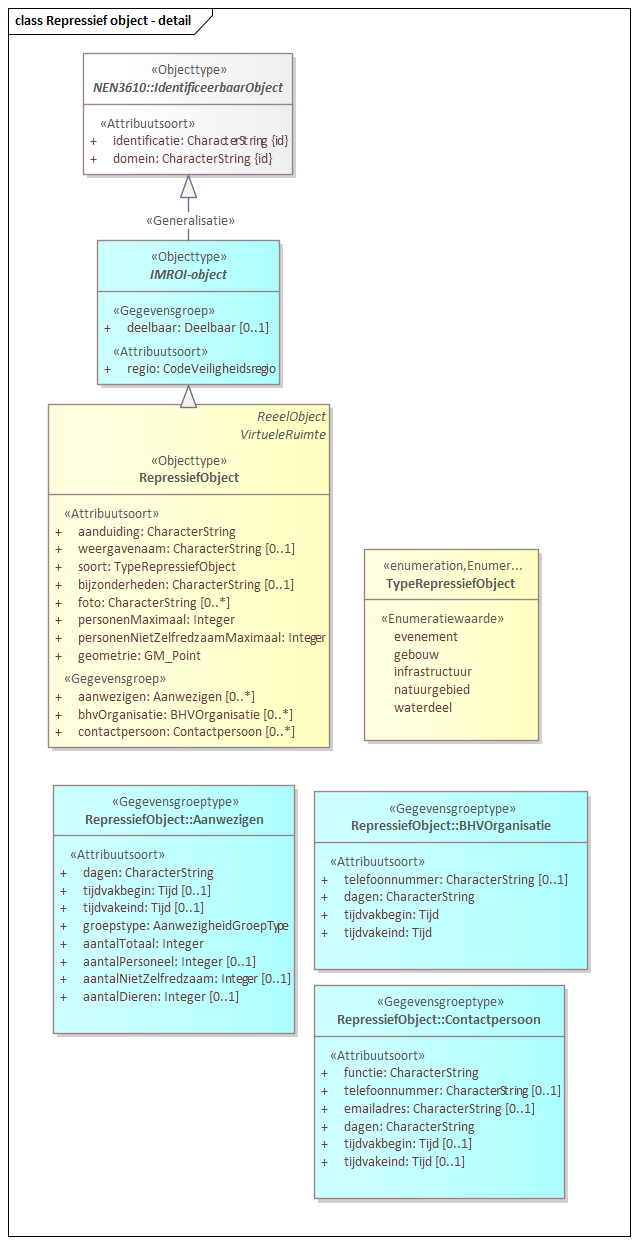
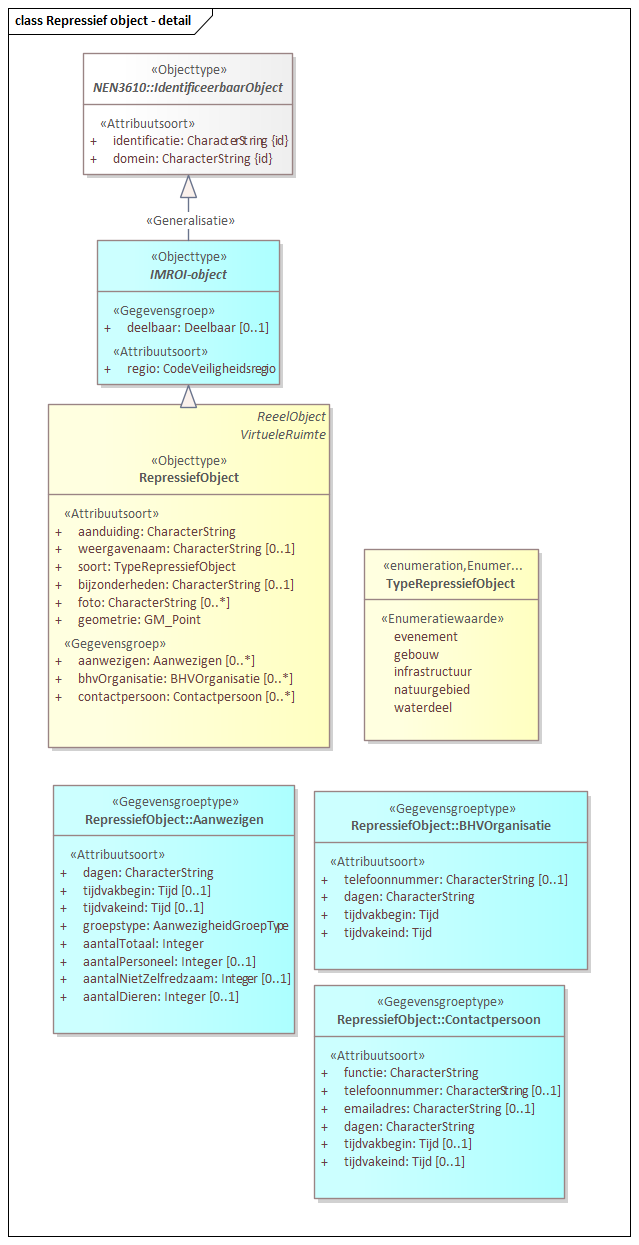
MIMCM-IMROI-logischmodel-1.0-0-20231106-20250707-103139

Changed region(s): [[0.0892, 0.4884, 0.5055, 0.6104]]

diff --git a/data/IMROI-cat.respec.html b/data/IMROI-cat.respec.html
@@ -1,4 +1,4 @@
-<!DOCTYPE HTML><section id="cat" class="normative"><h2>Gegevensdefinitie</h2><!--MIMCM-IMROI-logischmodel-1.0-0-20231106-20250122-074635 imvertor 4.3.0--><section id="global_package_IMROIdomein"><h3>Domein   IMROI - domein</h3><section id="EAID_F0702C87_77BC_4f87_90C6_7A2C434CAA31"><h4>   IMROI - overzicht</h4><div class="imageinfo overview"><figure class="uml-diagram"><img id="EAID_F0702C87_77BC_4f87_90C6_7A2C434CAA31" src="data/Images/EAID_F0702C87_77BC_4f87_90C6_7A2C434CAA31.png" usemap="#imagemap-EAID_F0702C87_77BC_4f87_90C6_7A2C434CAA31" alt="Diagram: IMROI - overzicht"><figcaption> ‒ Diagram: IMROI</figcaption></figure><map name="imagemap-EAID_F0702C87_77BC_4f87_90C6_7A2C434CAA31"><area shape="rect" alt="Bouwlaag" coords="48,409,169,457" href="#global_class_IMROIdomein_Bouwlaag"><area shape="rect" alt="IMROI-object" coords="206,67,329,135" href="#global_class_IMROIdomein_IMROIobject"><area shape="rect" alt="IdentificeerbaarObject" coords="397,63,534,141" href="#global_class_NEN3610_IdentificeerbaarObject"><area shape="rect" alt="Gebouw" coords="142,239,269,296" href="#global_class_IMROIdomein_Gebouw"><area shape="rect" alt="InformatieObject" coords="375,409,554,457" href="#global_class_IMROIdomein_InformatieObject"><area shape="rect" alt="Terrein" coords="700,239,804,296" href="#global_class_IMROIdomein_Terrein"><area shape="rect" alt="RepressiefObject" coords="378,239,551,296" href="#global_class_IMROIdomein_RepressiefObject"><area shape="rect" alt="Registratie" coords="681,66,804,139" href="#global_class_NEN3610_Registratie"></map><p>
+<!DOCTYPE HTML><section id="cat" class="normative"><h2>Gegevensdefinitie</h2><!--MIMCM-IMROI-logischmodel-1.0-0-20231106-20250707-103139 imvertor 4.4.0--><section id="global_package_IMROIdomein"><h3>Domein   IMROI - domein</h3><section id="EAID_F0702C87_77BC_4f87_90C6_7A2C434CAA31"><h4>   IMROI - overzicht</h4><div class="imageinfo overview"><figure class="uml-diagram"><img id="EAID_F0702C87_77BC_4f87_90C6_7A2C434CAA31" src="data/Images/EAID_F0702C87_77BC_4f87_90C6_7A2C434CAA31.png" usemap="#imagemap-EAID_F0702C87_77BC_4f87_90C6_7A2C434CAA31" alt="Diagram: IMROI - overzicht"><figcaption> ‒ Diagram: IMROI</figcaption></figure><map name="imagemap-EAID_F0702C87_77BC_4f87_90C6_7A2C434CAA31"><area shape="rect" alt="Bouwlaag" coords="48,409,169,457" href="#global_class_IMROIdomein_Bouwlaag"><area shape="rect" alt="IMROI-object" coords="206,67,329,135" href="#global_class_IMROIdomein_IMROIobject"><area shape="rect" alt="IdentificeerbaarObject" coords="397,63,534,141" href="#global_class_NEN3610_IdentificeerbaarObject"><area shape="rect" alt="Gebouw" coords="142,239,269,296" href="#global_class_IMROIdomein_Gebouw"><area shape="rect" alt="InformatieObject" coords="375,409,554,457" href="#global_class_IMROIdomein_InformatieObject"><area shape="rect" alt="Terrein" coords="700,239,804,296" href="#global_class_IMROIdomein_Terrein"><area shape="rect" alt="RepressiefObject" coords="378,239,551,296" href="#global_class_IMROIdomein_RepressiefObject"><area shape="rect" alt="Registratie" coords="681,66,804,139" href="#global_class_NEN3610_Registratie"></map><p>
                         <p></p>
                      </p></div></section><section id="EAID_476DC045_B88A_4aaa_A580_233B35E2F082"><h4>   IMROI zonder attributen - overzicht</h4><div class="imageinfo overview"><figure class="uml-diagram"><img id="EAID_476DC045_B88A_4aaa_A580_233B35E2F082" src="data/Images/EAID_476DC045_B88A_4aaa_A580_233B35E2F082.png" usemap="#imagemap-EAID_476DC045_B88A_4aaa_A580_233B35E2F082" alt="Diagram: IMROI zonder attributen - overzicht"><figcaption> ‒ Diagram: IMROI zonder attributen</figcaption></figure><map name="imagemap-EAID_476DC045_B88A_4aaa_A580_233B35E2F082"><area shape="rect" alt="Impactzone" coords="700,519,802,565" href="#global_class_IMROIdomein_Impactzone"><area shape="rect" alt="Functioneel gebied" coords="1575,581,1799,628" href="#global_class_IMGeo_Functioneelgebied"><area shape="rect" alt="Scheiding" coords="1322,542,1546,588" href="#global_class_IMGeo_Scheiding"><area shape="rect" alt="Kunstwerkdeel" coords="1313,304,1537,351" href="#global_class_IMGeo_Kunstwerkdeel"><area shape="rect" alt="Tunneldeel" coords="1311,383,1535,430" href="#global_class_IMGeo_Tunneldeel"><area shape="rect" alt="Overbruggingsdeel" coords="1311,463,1535,509" href="#global_class_IMGeo_Overbruggingsdeel"><area shape="rect" alt="Ondersteunend waterdeel" coords="1575,502,1799,549" href="#global_class_IMGeo_Ondersteunendwaterdeel"><area shape="rect" alt="Waterdeel" coords="1575,423,1799,469" href="#global_class_IMGeo_Waterdeel"><area shape="rect" alt="Begroeid terreindeel" coords="1575,265,1799,311" href="#global_class_IMGeo_Begroeidterreindeel"><area shape="rect" alt="Onbegroeid terreindeel" coords="1586,344,1809,390" href="#global_class_IMGeo_Onbegroeidterreindeel"><area shape="rect" alt="Spoor" coords="1313,225,1537,272" href="#global_class_IMGeo_Spoor"><area shape="rect" alt="Ondersteunend wegdeel" coords="1575,186,1799,232" href="#global_class_IMGeo_Ondersteunendwegdeel"><area shape="rect" alt="Wegdeel" coords="1313,147,1537,194" href="#global_class_IMGeo_Wegdeel"><area shape="rect" alt="Overig bouwwerk" coords="50,237,274,284" href="#global_class_IMGeo_Overigbouwwerk"><area shape="rect" alt="Pand" coords="50,160,274,206" href="#global_class_IMBAG_Pand"><area shape="rect" alt="PandOfOverigBouwwerk" coords="233,63,377,109" href="#global_class_IMROIdomein_PandOfOverigBouwwerk"><area shape="rect" alt="IMGeo-object" coords="1168,70,1291,116" href="#global_class_IMROIdomein_IMGeoobject"><area shape="rect" alt="Bouwlaag" coords="465,172,588,218" href="#global_class_IMROIdomein_Bouwlaag"><area shape="rect" alt="Veiligheidsvoorziening" coords="232,418,366,464" href="#global_class_IMROIdomein_Veiligheidsvoorziening"><area shape="rect" alt="Gebouw" coords="463,64,590,111" href="#global_class_IMROIdomein_Gebouw"><area shape="rect" alt="InformatieObject" coords="633,278,811,325" href="#global_class_IMROIdomein_InformatieObject"><area shape="rect" alt="Beheersmaatregel" coords="778,416,883,463" href="#global_class_IMROIdomein_Beheersmaatregel"><area shape="rect" alt="Referentiepunt" coords="535,519,640,565" href="#global_class_IMROIdomein_Referentiepunt"><area shape="rect" alt="Ruimte" coords="362,278,499,325" href="#global_class_IMROIdomein_Ruimte"><area shape="rect" alt="Bereikbaarheid" coords="456,416,561,463" href="#global_class_IMROIdomein_Bereikbaarheid"><area shape="rect" alt="Opslagvoorziening" coords="48,419,153,465" href="#global_class_IMROIdomein_Opslagvoorziening"><area shape="rect" alt="VindplaatsSleutel" coords="363,519,468,565" href="#global_class_IMROIdomein_VindplaatsSleutel"><area shape="rect" alt="Toegang" coords="128,523,233,569" href="#global_class_IMROIdomein_Toegang"><area shape="rect" alt="Opstelplaats" coords="614,416,719,463" href="#global_class_IMROIdomein_Opstelplaats"><area shape="rect" alt="Terrein" coords="963,65,1068,112" href="#global_class_IMROIdomein_Terrein"><area shape="rect" alt="RepressiefObject" coords="700,64,839,111" href="#global_class_IMROIdomein_RepressiefObject"></map><p>
                         <p></p>
@@ -97,18 +97,6 @@
                         </td><td>
                            CharacterString
                         </td><td>0 .. *</td></tr><tr><td>
-                           <a class="link" href="#detail_attribute_IMROIdomein_RepressiefObject_personenMaximaal">personenMaximaal</a>
-                        </td><td>
-                           <p>Het maximaal aantal aanwezige personen volgens de vergunning.</p>
-                        </td><td>
-                           Integer
-                        </td><td>1</td></tr><tr><td>
-                           <a class="link" href="#detail_attribute_IMROIdomein_RepressiefObject_personenNietZelfredzaamMaximaal">personenNietZelfredzaamMaximaal</a>
-                        </td><td>
-                           <p>Het maximaal aantal aanwezigen niet zelfredzame personen volgens de vergunning.</p>
-                        </td><td>
-                           Integer
-                        </td><td>1</td></tr><tr><td>
                            <a class="link" href="#detail_attribute_IMROIdomein_RepressiefObject_geometrie">geometrie</a>
                         </td><td>
                            <p>Puntgeometrie.</p>
@@ -750,7 +738,7 @@ gevaar oplevert voor de veiligheid en gezondheid van mens, dier en milieu.</p>
                
                <h6>Overzicht constraints  </h6>
                   <table style="width: 100%;"><colgroup style="width: 30%;"></colgroup><colgroup style="width: 70%;"></colgroup><tbody><tr><th>Naam</th><th>Uitleg</th></tr><tr><th>
-                           <a class="link" href="#detail_d69739e12191">
+                           <a class="link" href="#detail_d69023e11918">
                               TypeVeiligheidsvoorziening
                            </a>
                         </th><td></td></tr></tbody></table>
@@ -1714,38 +1702,6 @@ gevaar opleveren voor de veiligheid en gezondheid van mens, dier en milieu.</p>
                               CharacterString
                            </td></tr><tr><th>Kardinaliteit</th><td>0 .. *</td></tr><tr><th>Indicatie classificerend</th><td>Nee</td></tr><tr><th>Mogelijk geen waarde</th><td>Nee</td></tr><tr><th>Indicatie identificerend</th><td>Nee</td></tr></tbody></table>
                   </div>
-                  <div class="deepheader" id="detail_attribute_IMROIdomein_RepressiefObject_personenMaximaal"><h7>Attribuutsoort details  <a href="#global_class_IMROIdomein_RepressiefObject">RepressiefObject</a> personenMaximaal</h7>
-                     <table style="width: 100%;"><colgroup style="width: 30%;"></colgroup><colgroup style="width: 70%;"></colgroup><tbody><tr><th>Naam</th><td>personenMaximaal</td></tr><tr><th>Herkomst</th><td>
-                              IMROI
-                           </td></tr><tr><th>Definitie</th><td>
-                              
-                                    <p>Het maximaal aantal aanwezige personen volgens de vergunning.</p>
-                                 
-                           </td></tr><tr><th>Herkomst definitie</th><td>
-                              IMROI
-                           </td></tr><tr><th>Datum opname</th><td>
-                              2025-01-14
-                           </td></tr><tr><th>Formaat</th><td>
-                              Integer
-                           </td></tr><tr><th>Kardinaliteit</th><td>1</td></tr><tr><th>Indicatie classificerend</th><td>Nee</td></tr><tr><th>Mogelijk geen waarde</th><td>Nee</td></tr><tr><th>Indicatie identificerend</th><td>Nee</td></tr></tbody></table>
-                  </div>
-                  <div class="deepheader" id="detail_attribute_IMROIdomein_RepressiefObject_personenNietZelfredzaamMaximaal"><h7>Attribuutsoort details  <a href="#global_class_IMROIdomein_RepressiefObject">RepressiefObject</a> personenNietZelfredzaamMaximaal</h7>
-                     <table style="width: 100%;"><colgroup style="width: 30%;"></colgroup><colgroup style="width: 70%;"></colgroup><tbody><tr><th>Naam</th><td>personenNietZelfredzaamMaximaal</td></tr><tr><th>Herkomst</th><td>
-                              IMROI
-                           </td></tr><tr><th>Definitie</th><td>
-                              
-                                    <p>Het maximaal aantal aanwezigen niet zelfredzame personen volgens de vergunning.</p>
-                                 
-                           </td></tr><tr><th>Herkomst definitie</th><td>
-                              IMROI
-                           </td></tr><tr><th>Datum opname</th><td>
-                              2025-01-14
-                           </td></tr><tr><th>Formaat</th><td>
-                              Integer
-                           </td></tr><tr><th>Kardinaliteit</th><td>1</td></tr><tr><th>Toelichting</th><td>
-                              Niet zelfredzame personen hebben niet het vermogen om zichzelf of anderen te helpen in voorbereiding op, tijdens en na een brand, ramp of crisis.
-                           </td></tr><tr><th>Indicatie classificerend</th><td>Nee</td></tr><tr><th>Mogelijk geen waarde</th><td>Nee</td></tr><tr><th>Indicatie identificerend</th><td>Nee</td></tr></tbody></table>
-                  </div>
                   <div class="deepheader" id="detail_attribute_IMROIdomein_RepressiefObject_geometrie"><h7>Attribuutsoort details  <a href="#global_class_IMROIdomein_RepressiefObject">RepressiefObject</a> geometrie</h7>
                      <table style="width: 100%;"><colgroup style="width: 30%;"></colgroup><colgroup style="width: 70%;"></colgroup><tbody><tr><th>Naam</th><td>geometrie</td></tr><tr><th>Herkomst</th><td>
                               IMROI
@@ -2062,7 +2018,7 @@ gevaar opleveren voor de veiligheid en gezondheid van mens, dier en milieu.</p>
                               <a class="link" href="#global_class_IMROIdomein_VindplaatsSleutel">VindplaatsSleutel</a>
                            </td></tr><tr><th>Kardinaliteit</th><td>0 .. *</td></tr></tbody></table>
                   </div>
-                  <div class="deepheader" id="detail_d69739e12191"><h7>Constraint details  <a href="#global_class_IMROIdomein_Veiligheidsvoorziening">Veiligheidsvoorziening</a> TypeVeiligheidsvoorziening</h7>
+                  <div class="deepheader" id="detail_d69023e11918"><h7>Constraint details  <a href="#global_class_IMROIdomein_Veiligheidsvoorziening">Veiligheidsvoorziening</a> TypeVeiligheidsvoorziening</h7>
                      <table style="width: 100%;"><colgroup style="width: 30%;"></colgroup><colgroup style="width: 70%;"></colgroup><tbody><tr><th>OCL</th><td>context Veiligheidsvoorziening inv: if self.type = 'brandwerende scheiding' then self.geometrie.oclIsTypeOf(GM_Curve) else if self.type = 'hoofdafsluiter CV' then self.geometrie.oclIsTypeOf(GM_Point) else true endif</td></tr></tbody></table>
                   </div>
                </section>
@@ -3552,36 +3508,36 @@ De reguliere expressie voor de toegestane tekens is: ([a-z]|[A-Z]|[0-9]|_|-|\,|.
             
             
             
-         </section></section></section><section id="lis" class="normative"><h2>Inhoud van waardelijsten</h2><!--MIMCM-IMROI-logischmodel-1.0-0-20231106-20250122-074635 imvertor 4.3.0--><section><h3>Codelijst inhoud   </h3><section id="detail_class_IMROIdomein_TypeDraagconstructie"><h4>Codelijst details  TypeDraagconstructie</h4>
+         </section></section></section><section id="lis" class="normative"><h2>Inhoud van waardelijsten</h2><!--MIMCM-IMROI-logischmodel-1.0-0-20231106-20250707-103139 imvertor 4.4.0--><section><h3>Codelijst inhoud   </h3><section id="detail_class_IMROIdomein_TypeDraagconstructie"><h4>Codelijst details  TypeDraagconstructie</h4>
             <table style="width: 100%;" class="list"><colgroup></colgroup><tbody><tr><td>
                      <p>Lijst met classificaties voor het type Draagconstructie.</p>
                   </td></tr></tbody></table>
-            <table style="width: 100%;"><tbody><tr><th>Waarde</th><th>Omschrijving</th></tr></tbody></table>
+            <table style="width: 100%;"><tbody></tbody></table>
          </section><section id="detail_class_IMROIdomein_TypeDakbedekking"><h4>Codelijst details  TypeDakbedekking</h4>
             <table style="width: 100%;" class="list"><colgroup></colgroup><tbody><tr><td>
                      <p>Lijst met classificaties voor het type Dakbedekking.</p>
                   </td></tr></tbody></table>
-            <table style="width: 100%;"><tbody><tr><th>Waarde</th><th>Omschrijving</th></tr></tbody></table>
+            <table style="width: 100%;"><tbody></tbody></table>
          </section><section id="detail_class_IMROIdomein_TypeBereikbaarheid"><h4>Codelijst details  TypeBereikbaarheid</h4>
             <table style="width: 100%;" class="list"><colgroup></colgroup><tbody><tr><td>
                      <p>Lijst met classificaties voor het type Bereikbaarheid.</p>
                   </td></tr></tbody></table>
-            <table style="width: 100%;"><tbody><tr><th>Waarde</th><th>Omschrijving</th></tr></tbody></table>
+            <table style="width: 100%;"><tbody></tbody></table>
          </section><section id="detail_class_IMROIdomein_TypeReferentiepunt"><h4>Codelijst details  TypeReferentiepunt</h4>
             <table style="width: 100%;" class="list"><colgroup></colgroup><tbody><tr><td>
                      <p>Lijst met classificaties voor het type Point of Interest.</p>
                   </td></tr></tbody></table>
-            <table style="width: 100%;"><tbody><tr><th>Waarde</th><th>Omschrijving</th></tr></tbody></table>
+            <table style="width: 100%;"><tbody></tbody></table>
          </section><section id="detail_class_IMROIdomein_TypeUNNummer"><h4>Codelijst details  TypeUNNummer</h4>
             <table style="width: 100%;" class="list"><colgroup></colgroup><tbody><tr><td>
                      <p>Lijst met classificaties voor het type UN-nummer.</p>
                   </td></tr></tbody></table>
-            <table style="width: 100%;"><tbody><tr><th>Waarde</th><th>Omschrijving</th></tr></tbody></table>
+            <table style="width: 100%;"><tbody></tbody></table>
          </section><section id="detail_class_IMROIdomein_CodeVeiligheidsregio"><h4>Codelijst details  CodeVeiligheidsregio</h4>
             <table style="width: 100%;" class="list"><colgroup></colgroup><tbody><tr><td>
                      <p>Lijst met unieke codes voor de veiligheidsregio's in Nederland.</p>
                   </td></tr></tbody></table>
-            <table style="width: 100%;"><tbody><tr><th>Waarde</th><th>Omschrijving</th></tr></tbody></table>
+            <table style="width: 100%;"><tbody></tbody></table>
          </section></section><section><h3>Enumeratie inhoud   </h3><section id="detail_class_IMROIdomein_AanwezigheidGroepType"><h4>Enumeratie details  AanwezigheidGroepType</h4>
             <table style="width: 100%;" class="list"><colgroup></colgroup><tbody><tr><td>
                      <p>Person(en) die volgens het GBA een verblijfseenheid-woning stelselmatig bewonen.</p>
